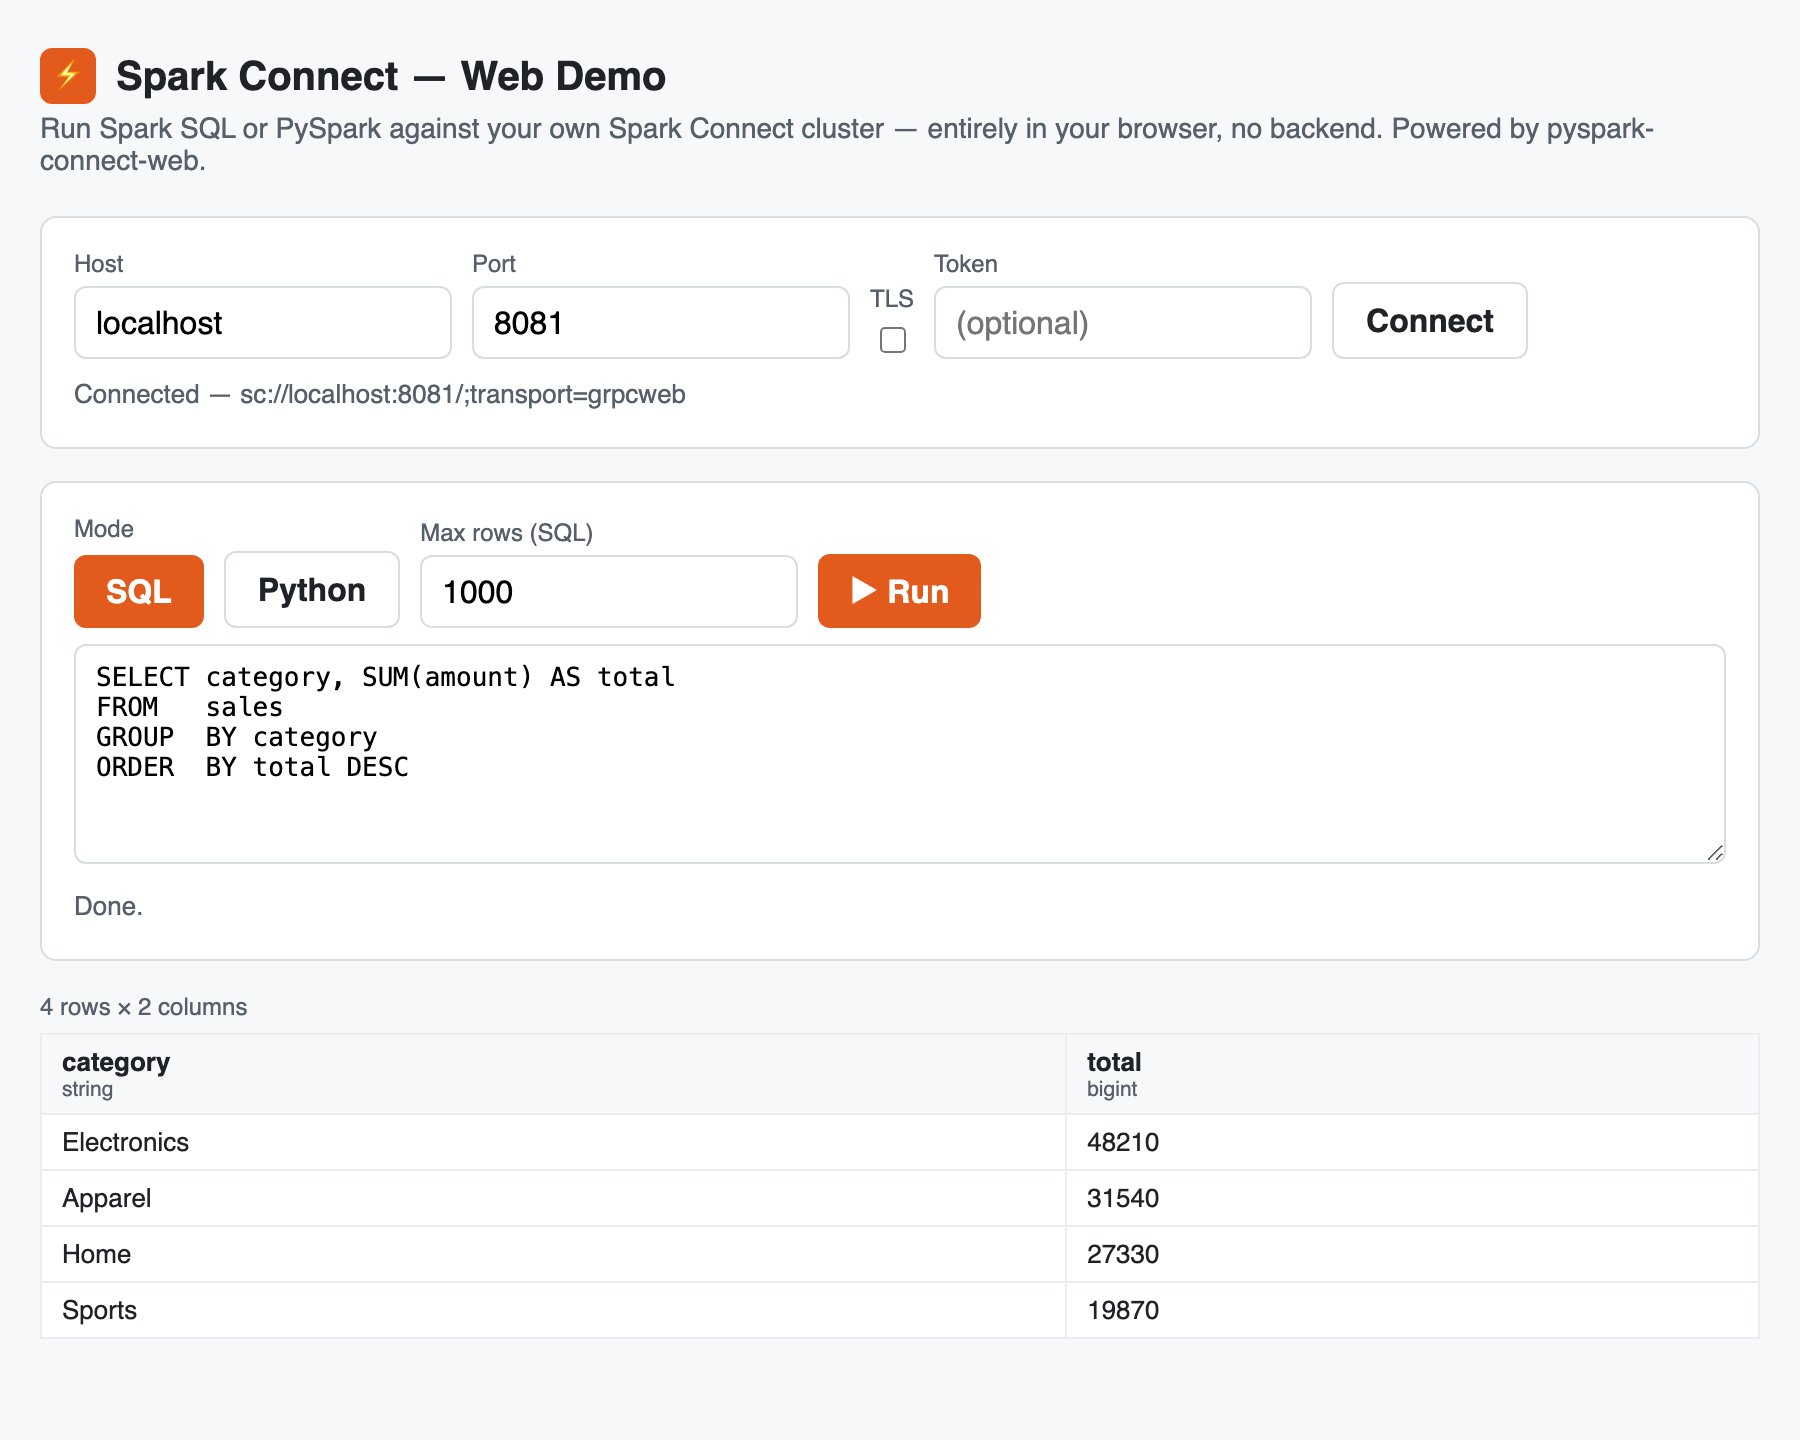
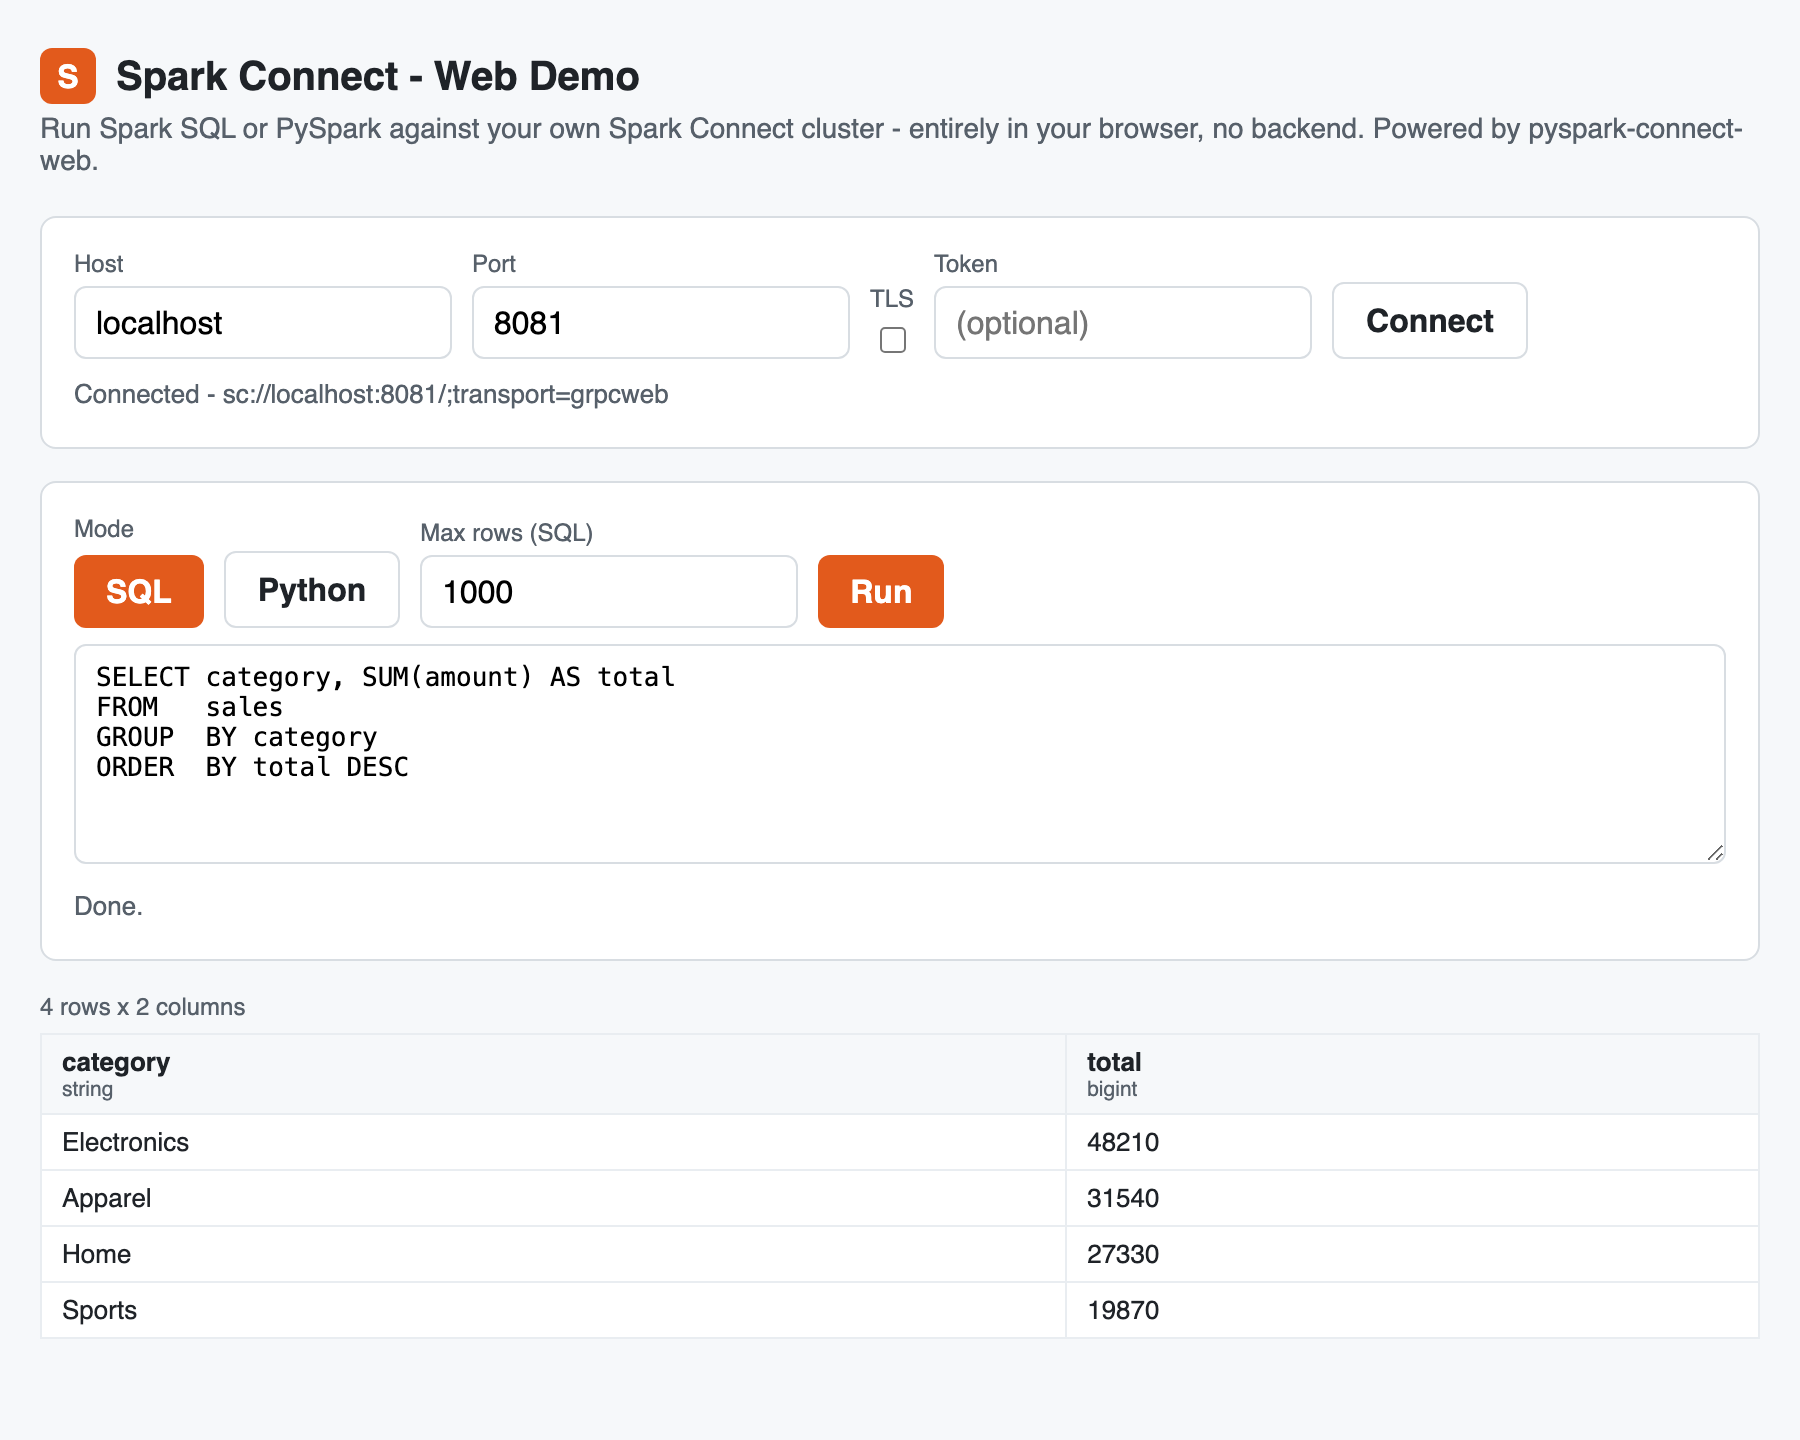
Docs/UI cleanup: ASCII demo UI, drop fake SVG, prune internal jargon
- demo.ts: remove non-ASCII (em dashes, ellipses, glyphs) from the UI text
  (the em dash that showed in the example screenshot); regenerate web-demo.png
- README: remove the fake animated SVG block + delete docs/demo.svg; shorten the
  screenshot caption; move the docs link inline near the intro; drop the
  Documentation section
- docs/index.md: drop the SVG, keep the screenshot
- docs/architecture.md: remove the internal 'Lane' column from the component
  inventory; trim 'See also' to in-site links only
- Green: lint, typecheck, build

diff --git a/src/demo/demo.ts b/src/demo/demo.ts
@@ -1,15 +1,15 @@
 // SPDX-License-Identifier: Apache-2.0
 //
-// demo.ts — standalone, zero-install web demo of Spark Connect in the browser.
+// demo.ts - standalone, zero-install web demo of Spark Connect in the browser.
 //
 // Unlike the Excel add-in, this page has no Office host: it instantiates the
 // runtime (Lane C PyodideHost) + the bridge (Lane D SparkBridgeHost) directly
 // and renders results into an HTML table. It exposes BOTH:
-//   - SQL mode    — bridge.runSQL(sql, cap) -> rich result table
-//   - Python mode — host.runPython(code) -> real PySpark, `spark` pre-bound
+//   - SQL mode    - bridge.runSQL(sql, cap) -> rich result table
+//   - Python mode - host.runPython(code) -> real PySpark, `spark` pre-bound
 //
 // Requires the page to be cross-origin isolated (served with COOP/COEP) so the
-// SharedArrayBuffer bridge works — exactly like the dialog host.
+// SharedArrayBuffer bridge works - exactly like the dialog host.
 
 import { PyodideHost } from "../runtime/pyodideHost";
 import { SparkBridgeHost } from "../bridge/sparkBridgeHost";
@@ -47,16 +47,16 @@ function boot(): void {
   if (!app) return;
   app.replaceChildren();
 
-  // ── Header
+  // -- Header
   app.append(
     el("div", { className: "demo-header" }, [
-      el("div", { className: "demo-header__logo", textContent: "⚡" }),
-      el("span", { className: "demo-header__title", textContent: "Spark Connect — Web Demo" }),
+      el("div", { className: "demo-header__logo", textContent: "S" }),
+      el("span", { className: "demo-header__title", textContent: "Spark Connect - Web Demo" }),
     ]),
     el("p", {
       className: "demo-sub",
       textContent:
-        "Run Spark SQL or PySpark against your own Spark Connect cluster — entirely " +
+        "Run Spark SQL or PySpark against your own Spark Connect cluster - entirely " +
         "in your browser, no backend. Powered by pyspark-connect-web.",
     }),
   );
@@ -73,7 +73,7 @@ function boot(): void {
     return;
   }
 
-  // ── Connection card
+  // -- Connection card
   const cHost = el("input", { value: "localhost", size: 16 }) as HTMLInputElement;
   const cPort = el("input", { value: "8081", size: 6, type: "number" }) as HTMLInputElement;
   const cTls = el("input", { type: "checkbox" }) as HTMLInputElement;
@@ -104,7 +104,7 @@ function boot(): void {
     ]),
   );
 
-  // ── Query card (mode toggle + editor + run)
+  // -- Query card (mode toggle + editor + run)
   const sqlBtn = el("button", {
     className: "demo-btn-secondary",
     textContent: "SQL",
@@ -120,7 +120,7 @@ function boot(): void {
   const capWrap = el("input", { type: "number", value: "1000", size: 6 }) as HTMLInputElement;
   const runBtn = el("button", {
     className: "demo-btn-primary",
-    textContent: "▶ Run",
+    textContent: "Run",
   }) as HTMLButtonElement;
   const runStatus = el("div", { className: "demo-status" });
   const results = el("div", {});
@@ -154,7 +154,7 @@ function boot(): void {
   );
   setMode("sql");
 
-  // ── Wiring
+  // -- Wiring
   function busy(b: boolean, statusEl: HTMLElement, msg = ""): void {
     runBtn.disabled = b;
     connectBtn.disabled = b;
@@ -167,7 +167,7 @@ function boot(): void {
   }
 
   connectBtn.onclick = async () => {
-    busy(true, connStatus, "Starting engine and connecting… (first run downloads Pyodide)");
+    busy(true, connStatus, "Starting engine and connecting... (first run downloads Pyodide)");
     try {
       const uri = buildRemoteUri({
         host: cHost.value.trim(),
@@ -176,7 +176,7 @@ function boot(): void {
       });
       await bridge.connect(uri, cToken.value ? { token: cToken.value } : undefined);
       connected = true;
-      connStatus.textContent = `Connected — ${uri}`;
+      connStatus.textContent = `Connected - ${uri}`;
     } catch (err) {
       fail(connStatus, err);
     } finally {
@@ -188,7 +188,7 @@ function boot(): void {
   runBtn.onclick = async () => {
     const src = editor.value.trim();
     if (!src) return;
-    busy(true, runStatus, "Running…");
+    busy(true, runStatus, "Running...");
     try {
       if (mode === "sql") {
         const cap = Number(capWrap.value) || 1000;

diff --git a/docs/architecture.md b/docs/architecture.md
@@ -101,28 +101,28 @@ TypeScript only `JSON.parse`s it. No ad-hoc type coercion straddles the boundary
 
 ## Component inventory
 
-| Module | Location | Lane | Role |
-|--------|----------|------|------|
-| Task pane HTML/TS | `src/taskpane/` | E | UI: connection, SQL editor, run/refresh/chart |
-| Dialog HTML | `src/dialog/dialog.html` | B | COI host window page |
-| COI helper | `src/dialog/coi.ts` | B | `ensureCrossOriginIsolated()` |
-| Dialog host | `src/dialog/dialogHost.ts` | B | Boots runtime, dispatches bridge messages |
-| Pyodide host | `src/runtime/pyodideHost.ts` | C | Web Worker + SAB bridge wiring |
-| Run Python RPC | `src/runtime/runPython.ts` | C | pcw_run / pcw_result protocol |
-| SparkBridgeHost | `src/bridge/sparkBridgeHost.ts` | D | Dialog-side SparkBridge impl |
-| SparkBridgeClient | `src/bridge/sparkBridgeClient.ts` | D | Task-pane-side SparkBridge impl |
-| Marshal helpers | `src/bridge/marshal.ts` | D | Parse JSON from Python runtime |
-| Python runtime | `python/spark_excel_runtime.py` | D | connect / run_sql / schema_of |
-| Range writer | `src/excel/rangeWriter.ts` | F | SparkResult -> worksheet range |
-| Type formatter | `src/excel/typeFormat.ts` | F | Spark types -> Excel number formats |
-| Binding | `src/excel/binding.ts` | G | Query->range persistence |
-| Refresh | `src/excel/refresh.ts` | G | Re-run query, rewrite range |
-| Charting | `src/excel/chart.ts` | H | inferChartType + insertChart |
-| Connection store | `src/connection/connectionStore.ts` | I | URI builder, token handling |
-| Connection form | `src/connection/connectionForm.ts` | I | DOM form helpers |
-| Deploy stack | `deploy/` | I | Envoy + Spark Docker Compose |
-| pcw vendor files | `public/vendor/` | integrator | worker_bootstrap, bridge, coi-sw |
-| Seam (frozen) | `src/seam.ts` | integrator | SparkBridge interface + message types |
+| Module | Location | Role |
+|--------|----------|------|
+| Task pane HTML/TS | `src/taskpane/` | UI: connection, SQL editor, run/refresh/chart |
+| Dialog HTML | `src/dialog/dialog.html` | COI host window page |
+| COI helper | `src/dialog/coi.ts` | `ensureCrossOriginIsolated()` |
+| Dialog host | `src/dialog/dialogHost.ts` | Boots runtime, dispatches bridge messages |
+| Pyodide host | `src/runtime/pyodideHost.ts` | Web Worker + SAB bridge wiring |
+| Run Python RPC | `src/runtime/runPython.ts` | pcw_run / pcw_result protocol |
+| SparkBridgeHost | `src/bridge/sparkBridgeHost.ts` | Dialog-side SparkBridge impl |
+| SparkBridgeClient | `src/bridge/sparkBridgeClient.ts` | Task-pane-side SparkBridge impl |
+| Marshal helpers | `src/bridge/marshal.ts` | Parse JSON from Python runtime |
+| Python runtime | `python/spark_excel_runtime.py` | connect / run_sql / schema_of |
+| Range writer | `src/excel/rangeWriter.ts` | SparkResult -> worksheet range |
+| Type formatter | `src/excel/typeFormat.ts` | Spark types -> Excel number formats |
+| Binding | `src/excel/binding.ts` | Query->range persistence |
+| Refresh | `src/excel/refresh.ts` | Re-run query, rewrite range |
+| Charting | `src/excel/chart.ts` | inferChartType + insertChart |
+| Connection store | `src/connection/connectionStore.ts` | URI builder, token handling |
+| Connection form | `src/connection/connectionForm.ts` | DOM form helpers |
+| Deploy stack | `deploy/` | Envoy + Spark Docker Compose |
+| pcw vendor files | `public/vendor/` | worker_bootstrap, bridge, coi-sw |
+| Seam (frozen) | `src/seam.ts` | SparkBridge interface + message types |
 
 ---
 
@@ -166,9 +166,6 @@ bindingStore.saveQueryBinding(q)  ->  document settings
 
 ## See also
 
-- `DECISIONS.md` - all architectural invariants
-- `API_CONTRACT.md` - the frozen SparkBridge seam
-- `docs/security.md` - threat model and token handling
-- `docs/reuse.md` - pyspark-connect-web provenance
-- `docs/installation.md` - how to build, dev, and sideload
-- `deploy/README.md` - Spark + Envoy stack
+- [Security](security.md) - threat model and token handling
+- [Dependency reuse](reuse.md) - pyspark-connect-web provenance
+- [Installation](installation.md) - build, dev, and sideload

diff --git a/README.md b/README.md
@@ -10,15 +10,9 @@
 **Power Query, but the engine is your Spark cluster.**
 
 <p align="center">
-  <img src="docs/demo.svg" alt="Spark Connect for Excel: write Spark SQL in the task pane, run it, and results land in the grid with a chart - no backend server." width="900" />
+  <img src="docs/screenshots/web-demo.png" alt="The web demo: connect, run Spark SQL or PySpark, results as a typed table." width="820" />
   <br/>
-  <em>Spark SQL and PySpark run in your browser; results land in the grid and a native chart is drawn.</em>
-</p>
-
-<p align="center">
-  <img src="docs/screenshots/web-demo.png" alt="The web demo: connect, run Spark SQL, results land in a typed table." width="820" />
-  <br/>
-  <em>The zero-install web demo (real UI): connect, run Spark SQL or PySpark, results render as a typed table.</em>
+  <em>The web demo: a Spark SQL query and its result.</em>
 </p>
 
 An Excel add-in that runs a Spark SQL query against your own
@@ -28,6 +22,8 @@ charts it - with **no backend server of its own**. The query client runs
 entirely in-browser via
 [pyspark-connect-web](https://github.com/HyukjinKwon/pyspark-client-wasm)
 (real PySpark, in Pyodide).
+
+Full documentation: <https://hyukjinkwon.github.io/spark-connect-excel/>.
 
 ## Features
 
@@ -134,12 +130,6 @@ manifest (`npm run build:manifest -- --origin https://your-host`), and share tha
 `manifest.xml`. See [docs/distribution.md](docs/distribution.md).
 
 Full installation guide: [docs/installation.md](docs/installation.md)
-
-## Documentation
-
-Full documentation - installation, usage, architecture, security, and
-distribution - is on the docs site:
-**<https://hyukjinkwon.github.io/spark-connect-excel/>**.
 
 ## Compatibility
 

diff --git a/docs/index.md b/docs/index.md
@@ -12,11 +12,7 @@ cluster, land the result in a worksheet range, refresh it, and chart it - with
 (real PySpark, in Pyodide).
 
 <p align="center">
-  <img src="demo.svg" alt="Type Spark SQL, run it, rows land in the grid with a chart - no backend." width="820" />
-</p>
-
-<p align="center">
-  <img src="screenshots/web-demo.png" alt="The web demo: connect, run Spark SQL, results land in a typed table." width="760" />
+  <img src="screenshots/web-demo.png" alt="The web demo: connect, run Spark SQL or PySpark, results as a typed table." width="760" />
 </p>
 
 ## Highlights